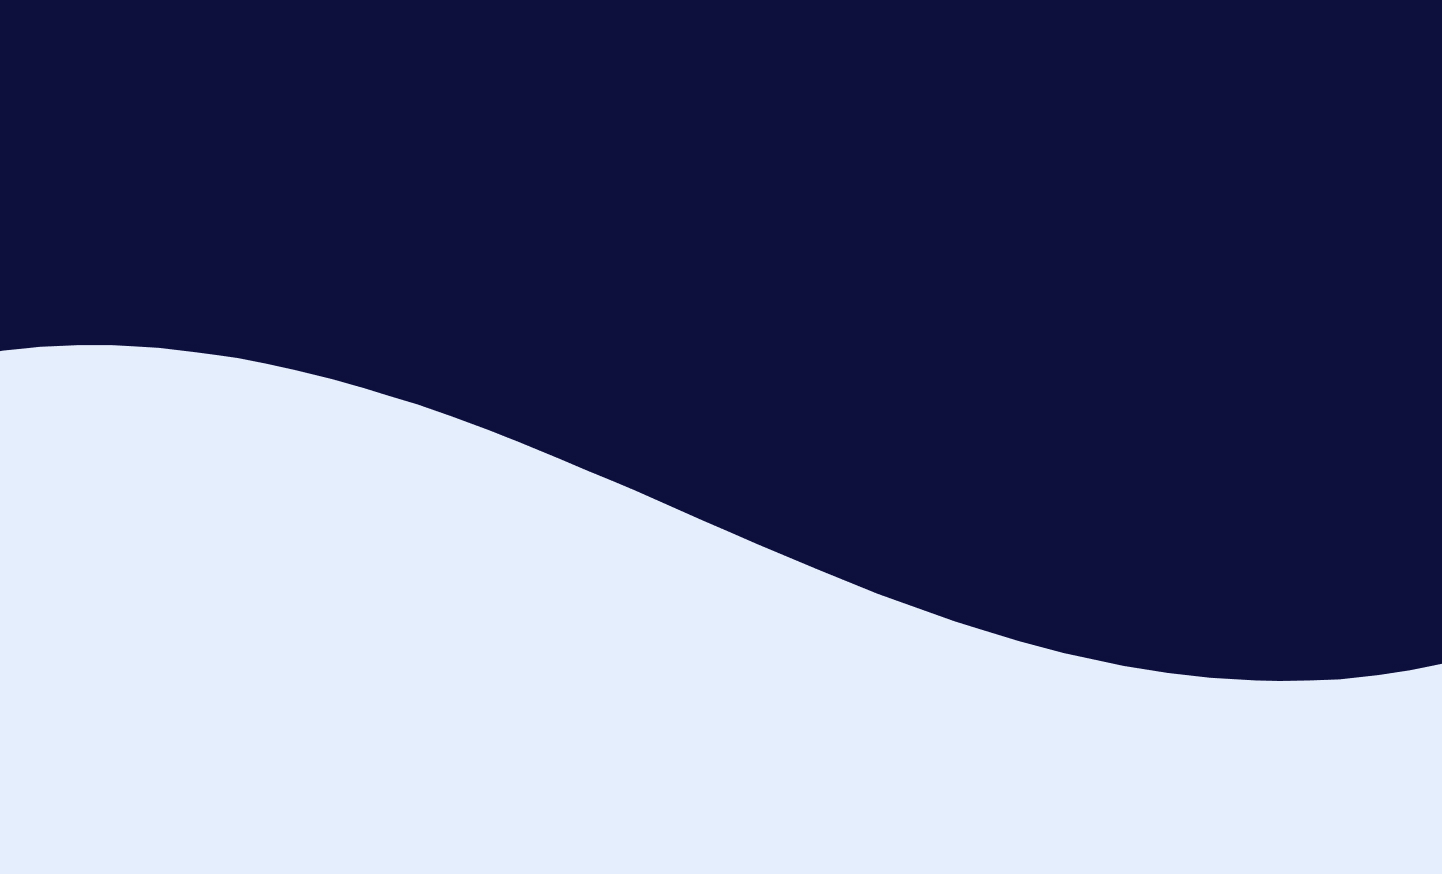
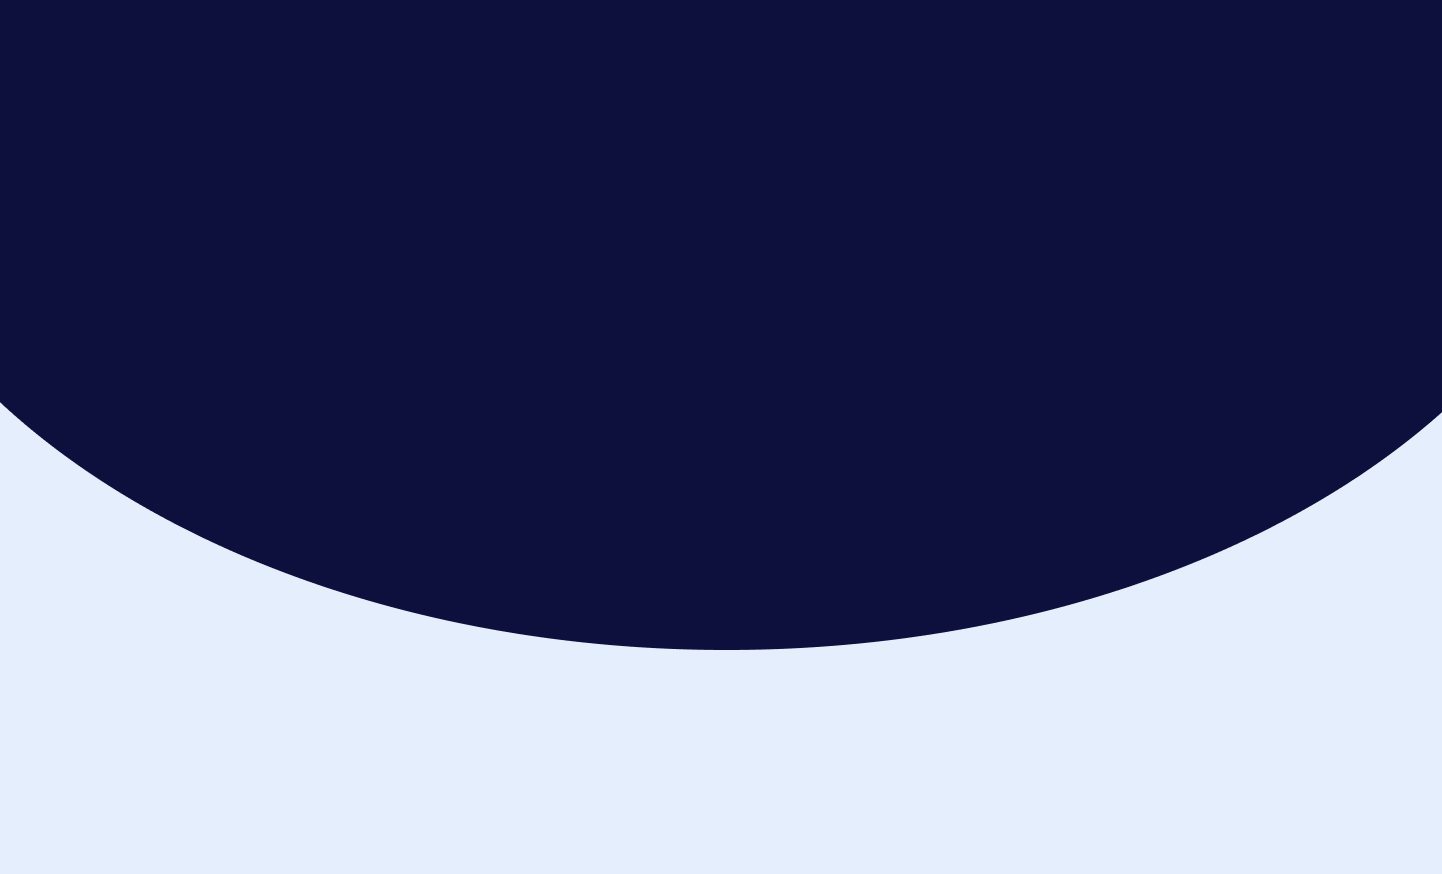
service page

Changed region(s): [[0.0, 0.3707, 1.0, 0.8032]]

diff --git a/src/pages/services/Services.jsx b/src/pages/services/Services.jsx
@@ -1,4 +1,6 @@
 import React from "react";
+import {BsWhatsapp,BsInstagram,BsTwitter} from "react-icons/bs";
+import {FaFacebookF,FaTelegramPlane} from "react-icons/fa";
 
 const Services = () => {
   return (
@@ -28,7 +30,6 @@ const Services = () => {
                 aria-label="Slide 3"
               ></button>
             </div>
-
 
             <div className="carousel-inner">
               <div className="carousel-item active">
@@ -116,7 +117,6 @@ const Services = () => {
 
       <div className="services-section">
         <div className="container">
-
           <div className="service-card">
             <div className="row">
               <div className="col-md-8 ">
@@ -155,54 +155,179 @@ const Services = () => {
               </div>
             </div>
           </div>
-
-
-
-          <div className="service-card">
-            <div className="row">
-             
-              <div className="col-md-4 p-4">
-                <h4 className="card-heading">Content Managment System (CMS)</h4>
-                <p className="">
-                  Lorem ipsum dolor sit amet consectetur adipisicing elit. Reprehenderit id voluptates magnam consequuntur odit esse natus nisi tempora culpa quia aliquam illo magni, quisquam commodi ipsa possimus asperiores beatae explicabo.
-                </p>
-
-                <ul className="service-card-ul">
-                  <li>Wordpress</li>
-                  <li>Wix</li>
-                  <li>shopify</li>
-                  
-                </ul>
-                <p>Following are the core features of custom website:</p>
-
-                <ul>
-                  <li>Long Term Business</li>
-                  <li>Easy to Modify</li>
-                  <li>Reliable</li>
-                  <li>Secure</li>
-                  <li>Scalable</li>
-                </ul>
-              </div>
-
-
-              <div className="col-md-8">
-                <img
-                  src={require("../../assets/img/custom-web.jpg")}
-                  alt="custom website"
-                  className="img-fluid"
-                />
-              </div>
-
-
-            </div>
-          </div>
-
         </div>
       </div>
 
+      <div className="service-layer">
+        <img
+          src={require("../../assets/img/svgexport-1.svg").default}
+          alt="separator"
+          className="separator"
+        />
 
-      <div className="services-bottom">
-        Lorem, ipsum dolor sit amet consectetur adipisicing elit. Alias corporis quos fuga, quibusdam iste similique beatae? Ducimus enim, nihil reiciendis, placeat atque qui maiores dolor laboriosam vel officiis corrupti molestias.
+        <div className="separator-layer">
+          <div className="container ">
+            <div className="service-card ">
+              <div className="row">
+                <div className="col-md-4 p-4">
+                  <h4 className="card-heading">
+                    Content Managment System (CMS)
+                  </h4>
+                  <p className="">
+                    Lorem ipsum dolor sit amet consectetur adipisicing elit.
+                    Reprehenderit id voluptates magnam consequuntur odit esse
+                    natus nisi tempora culpa quia aliquam illo magni, quisquam
+                    commodi ipsa possimus asperiores beatae explicabo.
+                  </p>
+
+                  <ul className="service-card-ul">
+                    <li>Wordpress</li>
+                    <li>Wix</li>
+                    <li>shopify</li>
+                  </ul>
+                  <p>Following are the core features of custom website:</p>
+
+                  <ul>
+                    <li>Long Term Business</li>
+                    <li>Easy to Modify</li>
+                    <li>Reliable</li>
+                    <li>Secure</li>
+                    <li>Scalable</li>
+                  </ul>
+                </div>
+
+                <div className="col-md-8">
+                  <img
+                    src={require("../../assets/img/custom-web.jpg")}
+                    alt="custom website"
+                    className="img-fluid"
+                  />
+                </div>
+              </div>
+            </div>
+          </div>
+        </div>
+        <img
+          src={require("../../assets/img/svgexport-1.svg").default}
+          alt="separator"
+          className="separator-bottom"
+        />
+      </div>
+
+      <div className="service-layer-two">
+        {/* <img src={require("../../assets/img/laptop.png")} alt="laptop" className="laptop" /> */}
+
+        <div className="container">
+
+          <div className="row">
+            <div className="col-md-6 mt-3">
+              <h1>Website Customization</h1>
+              <div className="row pt-3 pt-md-5">
+                <div className="col-6 mt-3">
+                  <div className="web-card">
+                    <h5>Server Engine Optimization</h5>
+                    <p>
+                      Lorem ipsum dolor sit amet conse ctetur adipi sicing elit.
+                      Aperiam necessi tatibus deserunt iure, eius laudan
+                    </p>
+                  </div>
+                </div>
+                <div className="col-6 mt-3">
+                  <div className="web-card">
+                    <h5>Website Redesign</h5>
+                    <p>
+                      Lorem ipsum dolor sit amet conse ctetur adipi sicing elit.
+                      Aperiam necessi tatibus deserunt iure, eius laudan
+                    </p>
+                  </div>
+                </div>
+
+                <div className="col-6 mt-3">
+                  <div className="web-card">
+                    <h5>Website UI Design</h5>
+                    <p>
+                      Lorem ipsum dolor sit amet conse ctetur adipi sicing elit.
+                      Aperiam necessi tatibus deserunt iure, eius laudan
+                    </p>
+                  </div>
+                </div>
+                <div className="col-6 mt-3">
+                  <div className="web-card">
+                    <h5>Website Content Creation</h5>
+                    <p>
+                      Lorem ipsum dolor sit amet conse ctetur adipi sicing elit.
+                      Aperiam necessi tatibus deserunt iure, eius laudan
+                    </p>
+                  </div>
+                </div>
+              </div>
+            </div>
+
+            <div className="col-md-6 d-flex justify-content-center mt-3">
+              <img src={require("../../assets/img/sectionImg.jpg")} alt="website-redesign" className="img-fluid" />
+            </div>
+          </div>
+
+
+          
+          <div className="row pt-5 mt-md-5">
+
+            <div className="col-md-6 d-flex justify-content-center order-last order-md-first mt-3">
+              <img src={require("../../assets/img/market-bg.jpg")} alt="marketting" className="img-fluid" />
+            </div>
+
+
+            <div className="col-md-6  order-fisrt order-md-last mt-3">
+              <h1>Digital Marketting</h1>
+              <div className="row pt-3 pt-md-5">
+                <div className="col-6 mt-3">
+                  <div className="web-card">
+                   <ul>
+                    <li> <div className="marketing"><BsWhatsapp className="icon"/> </div> </li>
+                    <li> <div className="marketing"><BsInstagram className="icon"/></div>  </li>
+                    <li> <div className="marketing"><FaFacebookF className="icon"/> </div> </li>
+                    <li> <div className="marketing"> <BsTwitter className="icon"/> </div></li>
+                    <li> <div className="marketing"> <FaTelegramPlane className="icon"/> </div></li>
+                    
+                   </ul>
+                  </div>
+                </div>
+                <div className="col-6 mt-3">
+                  <div className="web-card">
+                    <h5>Website Redesign</h5>
+                    <p>
+                      Lorem ipsum dolor sit amet conse ctetur adipi sicing elit.
+                      Aperiam necessi tatibus deserunt iure, eius laudan
+                    </p>
+                  </div>
+                </div>
+
+                <div className="col-6 mt-3">
+                  <div className="web-card">
+                    <h5>Website UI Design</h5>
+                    <p>
+                      Lorem ipsum dolor sit amet conse ctetur adipi sicing elit.
+                      Aperiam necessi tatibus deserunt iure, eius laudan
+                    </p>
+                  </div>
+                </div>
+                <div className="col-6 mt-3">
+                  <div className="web-card">
+                    <h5>Website Content Creation</h5>
+                    <p>
+                      Lorem ipsum dolor sit amet conse ctetur adipi sicing elit.
+                      Aperiam necessi tatibus deserunt iure, eius laudan
+                    </p>
+                  </div>
+                </div>
+              </div>
+            </div>
+
+
+          </div>
+
+
+        </div>
       </div>
     </>
   );

diff --git a/src/index.scss b/src/index.scss
@@ -1039,9 +1039,10 @@ border-radius: 0.4rem;
 .frontendTech{
   min-height: 80vh;
    background-image: url("./assets/img/curve.jpg");
+   background-position: center center;
   background-repeat: no-repeat;
   background-size: cover;
-  background-position: 30% center;
+ 
  
 .carousel-indicators{
   button{
@@ -1051,6 +1052,13 @@ border-radius: 0.4rem;
   .carousel-inner{
     min-height: 80vh;
     padding-top: 4rem;
+    @media all and (max-width:768px) {
+    img{
+      display: none;
+    }
+    }
+      
+    
   }
   
 }
@@ -1080,7 +1088,7 @@ border-radius: 0.4rem;
 
 .service-card{
   background-color: #fff;
-  margin-bottom:8rem;
+   
   border-radius: 0.4rem;
   box-shadow: rgba(149, 157, 165, 0.2) 0px 8px 24px;
 }
@@ -1106,17 +1114,102 @@ border-radius: 0.4rem;
 }
 
 
-.services-bottom{
-  padding: 3rem 0;
- background-image: linear-gradient(90deg, rgba(255, 255, 255,0.8), rgba(255, 255, 255,0.8)),url("./assets/img/market-bg.jpg");
- min-height: 60vh;
- background-size: cover;
- background-attachment: fixed;
-   
-}
+ 
 
 .logo{
   @media all and (max-width:768px){
     width: 60px;
   }
+}
+
+
+.service-layer{
+ 
+  background-color: #CCDEFA;
+
+}
+
+.separator-bottom{
+  height: 100px;
+  width: 100%;
+}
+
+.separator{
+  width: 100%;
+  height: 100px;
+  transform: scaleY(-1);
+}
+.separator-layer{
+  padding: 7rem 0;
+}
+
+.service-layer-two{
+  position: relative;
+  background-color: #E5EEFD;
+ 
+  padding: 5em 0;
+
+  .laptop{
+    position: absolute;
+    right: 0;
+    top: 50%;
+    max-height: 100vh;
+    transform: translateY(-50%);
+  }
+}
+
+.web-card{
+  background-color: #CCDEFA;
+  border-radius: 0.4rem;
+  padding: 1rem;
+
+
+  @media all and (max-width:992px){
+    min-height: 120px;
+    p{
+      display: none;
+    }
+  }
+  
+  ul{
+    padding: 0;
+    list-style: none;
+    margin: 0;
+  
+  
+    li{
+    display: inline-block;
+    margin-bottom: 1rem;
+    .marketing{
+      width: 3rem;
+      height: 3rem;
+      background-color: #fff;
+      border-radius: 0.4rem;
+      place-items: center;
+      margin-right: 1rem;
+      display: grid;
+      place-items: center;
+      
+      .icon{
+        color: $color-yellow;
+        font-size: 1.5rem;
+      }
+      
+    }
+   
+
+    @media all and (max-width:768px){
+      .marketing{
+        width: 2rem;
+        height: 2rem;
+        margin-right: 0.5rem;
+        .icon{
+          font-size: 1rem;
+        }
+      }
+    }
+
+    }
+  }
+
 }
